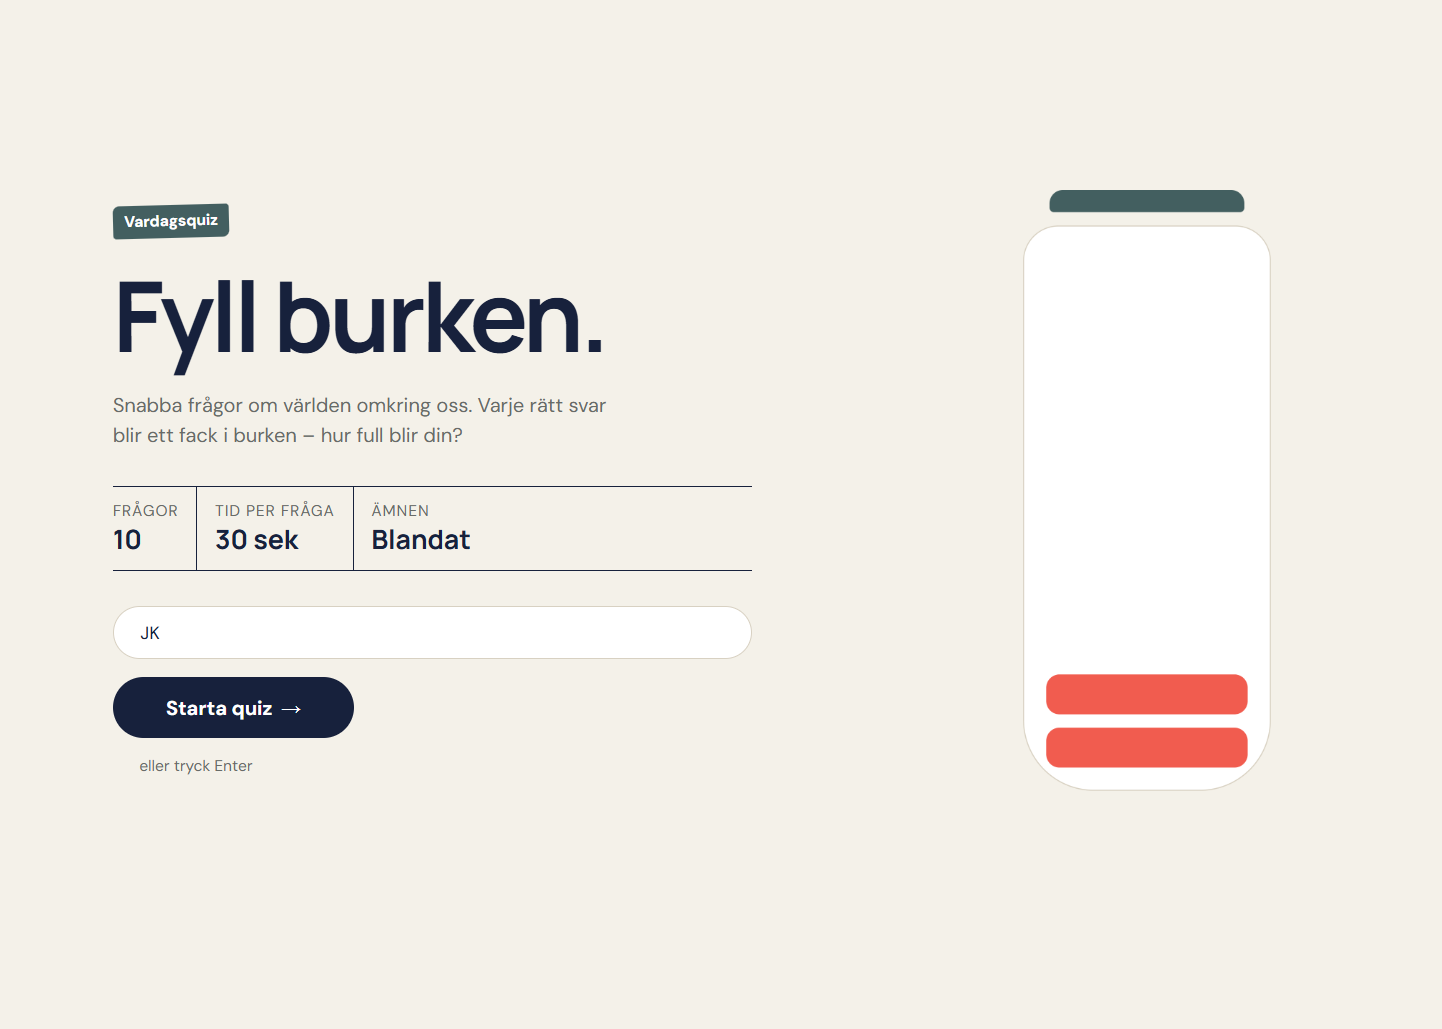
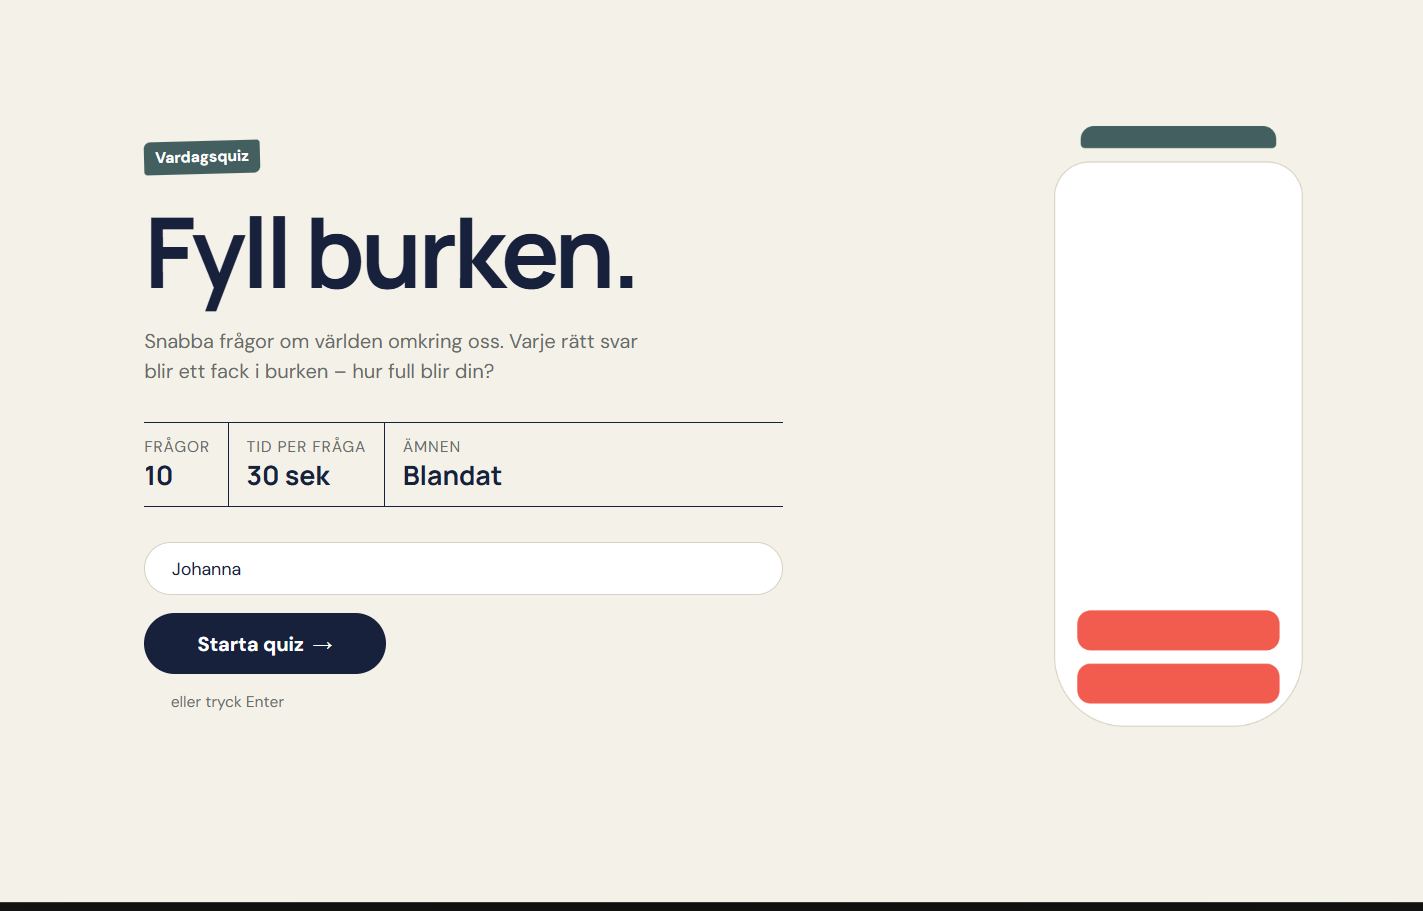
Refactor code structure for improved readability and maintainability

diff --git a/README.md b/README.md
@@ -2,7 +2,7 @@
 
 ## Publicerad sida
 
-[Developer Portfolio]()
+[Developer Portfolio](https://codebyjk.github.io/u02-portfolio-javascript/)
 
 # Min utvecklarportfolio
 
